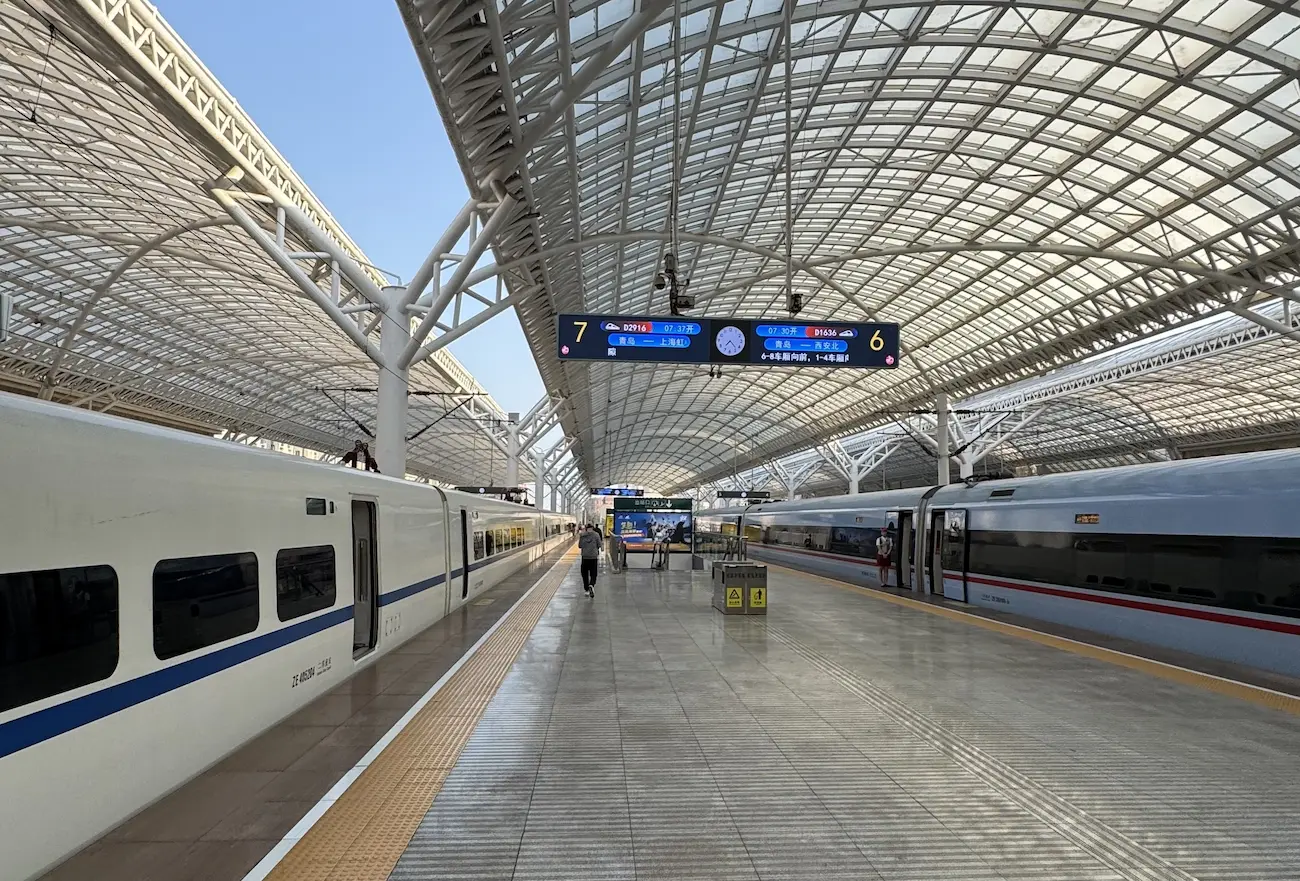
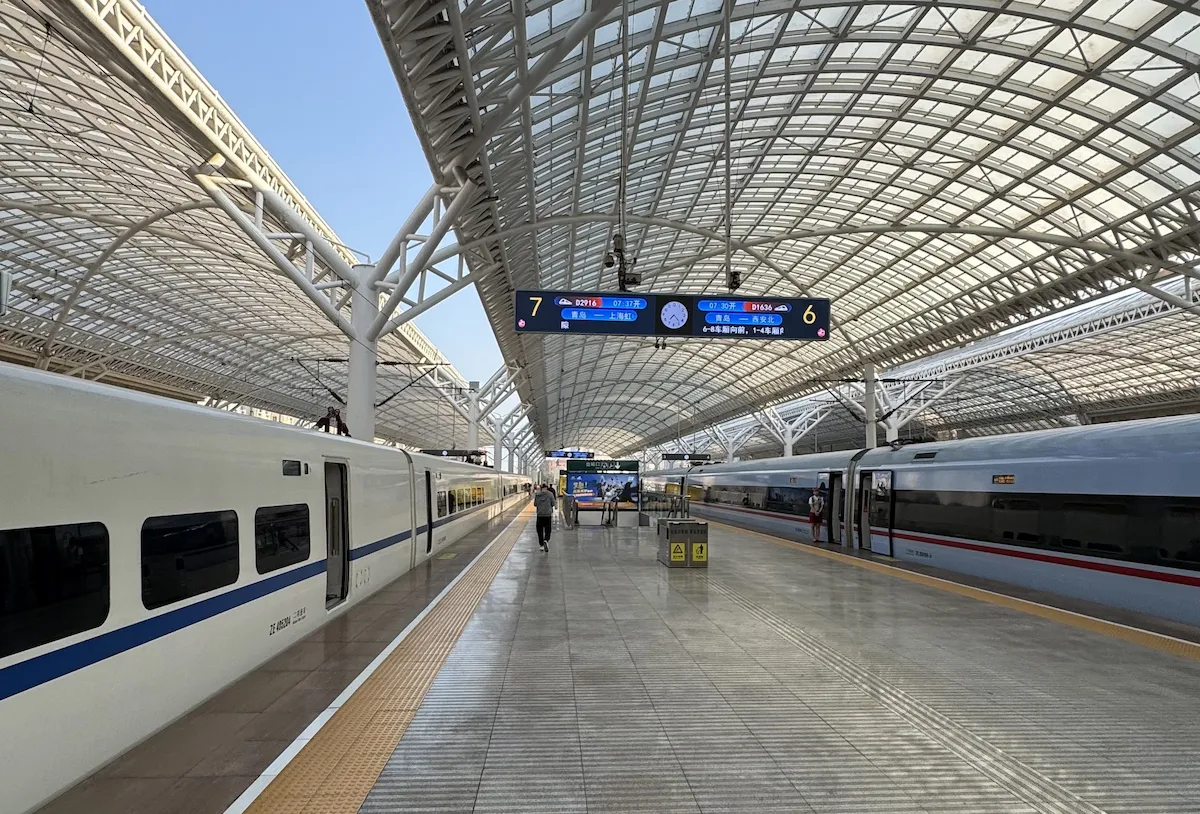
google font issue

diff --git a/_tabs/about.md b/_tabs/about.md
@@ -3,9 +3,8 @@
 icon: fas fa-info-circle
 order: 5
 ---
+
 <style>
-/* ── Fonts ── */
-@import url('https://fonts.googleapis.com/css2?family=Cormorant+Garamond:ital,wght@0,400;0,600;1,400&family=DM+Sans:wght@300;400;500&display=swap');
 
 /* ── CSS Variables ── */
 :root {

diff --git a/_tabs/gallery.md b/_tabs/gallery.md
@@ -5,8 +5,6 @@ order: 7
 ---
 
 <style>
-@import url('https://fonts.googleapis.com/css2?family=Bebas+Neue&family=Cormorant+Garamond:ital,wght@0,300;1,300&family=DM+Sans:wght@300;400;500&display=swap');
-
 :root {
   --accent: #b07d4a;
   --muted: #888;
